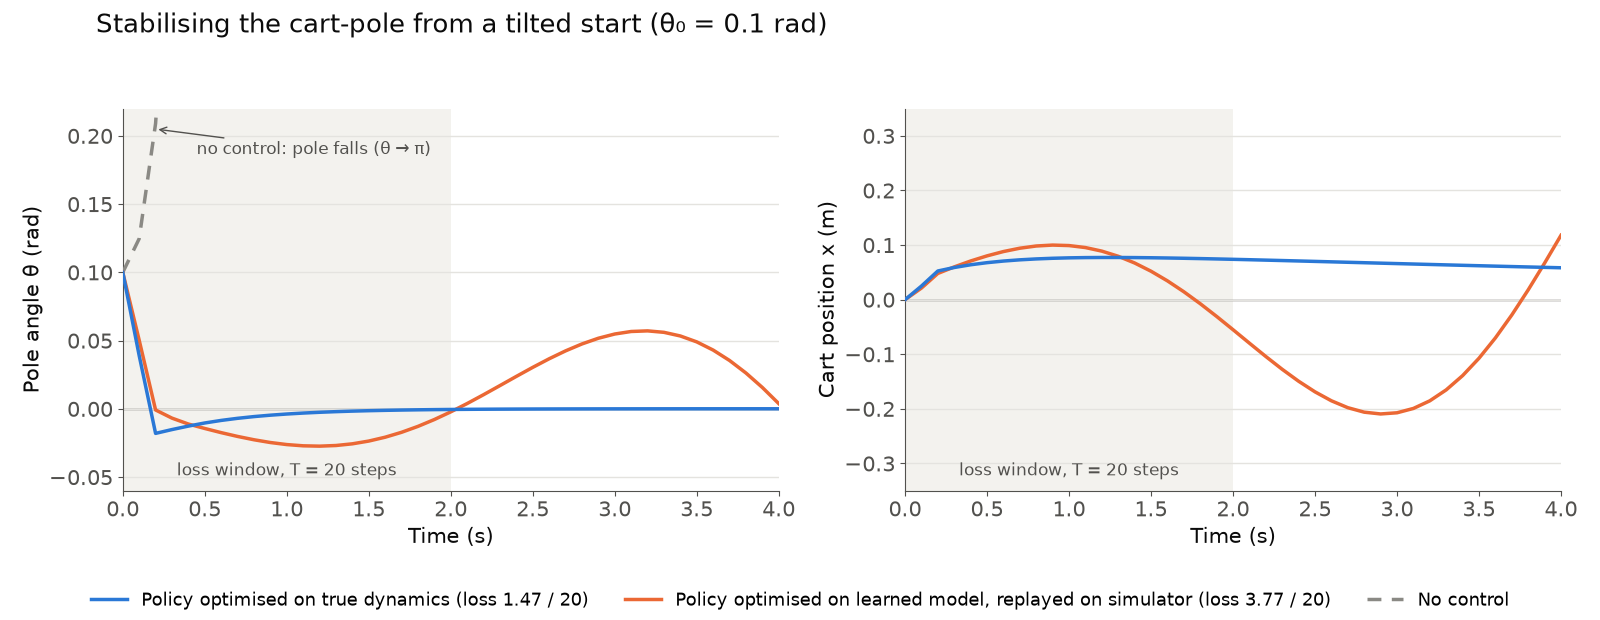
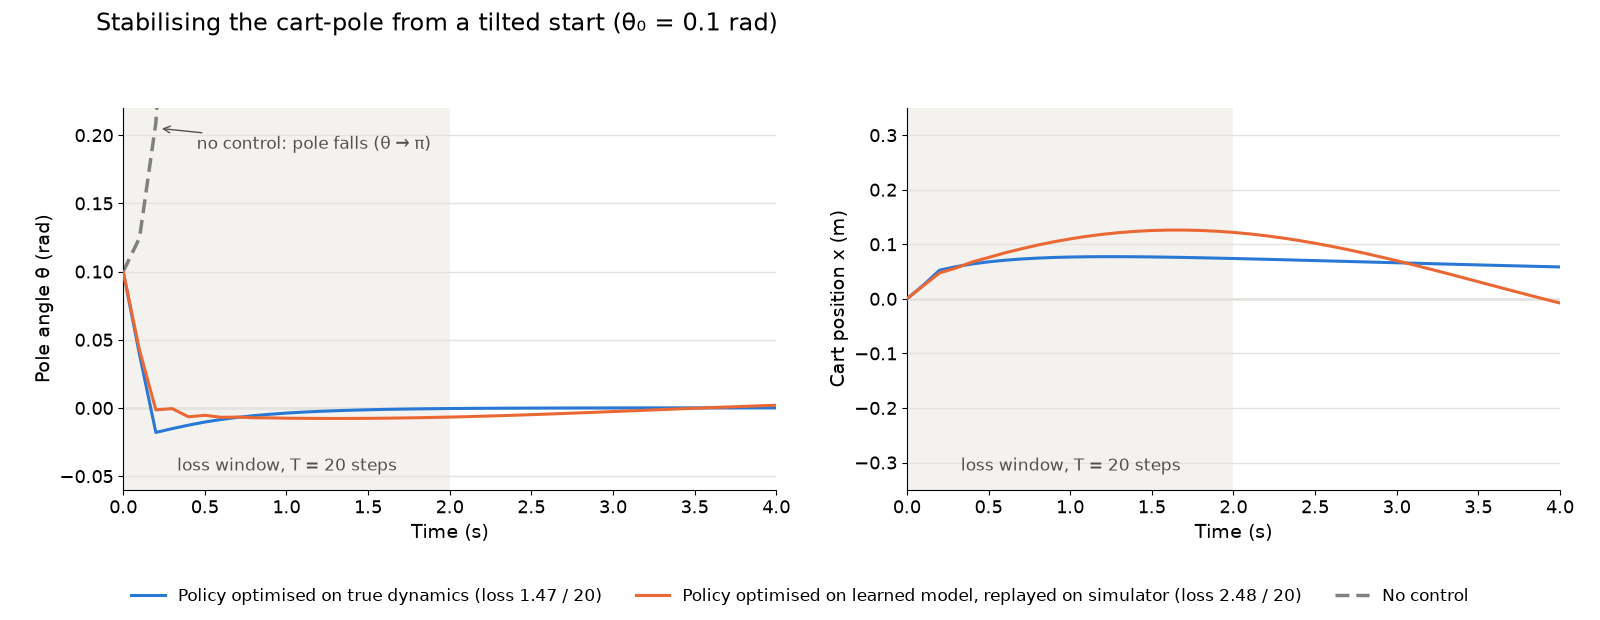
Add hero figure script, fix process-noise pipeline, update README values

diff --git a/experiments/policy_search/make_hero_figure.py b/experiments/policy_search/make_hero_figure.py
@@ -1,0 +1,161 @@
+import os
+import time
+import jax
+import jax.numpy as jnp
+import numpy as np
+import matplotlib.pyplot as plt
+from scipy.optimize import minimize
+
+from cartpole.simulation import rollout
+from experiments.policy_search.optimise_policy import objective
+from experiments.policy_search.optimise_on_action_model import model_rollout_jax, trajectory_loss_jax
+
+# Requires models/policy_search/model_kernel_optimized_sincos_action.npz
+# (experiments.policy_search.dataset, then experiments.policy_search.action_model).
+
+PARAMS = dict(
+    pole_length=0.5,
+    pole_mass=0.5,
+    cart_mass=0.5,
+    mu_c=0.001,
+    mu_p=0.001,
+    gravity=9.8,
+    sim_steps=50,
+    delta_time=0.1,
+    max_force=20.0,
+)
+SIGMA_L = jnp.array([0.5, 0.4, 0.05, 0.25])
+X0 = jnp.array([0.0, 0.0, 0.1, 0.0])
+T_LOSS = 20       # loss window on the simulator, as in optimise_policy
+T_MODEL = 5       # optimisation horizon inside the learned model, as in optimise_on_action_model
+T_PLOT = 40       # 4 s at delta_time = 0.1
+MAX_FORCE = 20.0
+
+BLUE = "#2a78d6"
+ORANGE = "#eb6834"
+GREY = "#808080"
+SHADE = "#f3f2ee"
+GRID = "#e4e3df"
+MUTED = "#52514e"
+
+def lbfgs(loss_fn):
+    obj_and_grad = jax.jit(jax.value_and_grad(loss_fn))
+    return minimize(
+        lambda p: float(obj_and_grad(p)[0]),
+        np.zeros(4),
+        method="L-BFGS-B",
+        jac=lambda p: np.array(obj_and_grad(p)[1]),
+        options={"maxiter": 100}
+    )
+
+def simulate(policy, T):
+    """Replay a linear policy on the reference simulator; returns (T+1, 4) including x0."""
+    if policy is None:
+        action_fn = None
+    else:
+        def action_fn(t, state):
+            return np.clip(np.dot(policy, state), -MAX_FORCE, MAX_FORCE)
+    traj = rollout(np.array(X0), T=T, action_fn=action_fn, remap=True)
+    return np.vstack([np.array(X0), traj])
+
+def simulator_loss(traj):
+    # Same loss as optimise_policy: sum over the T_LOSS states after x0
+    return float(trajectory_loss_jax(jnp.array(traj[1:T_LOSS + 1]), X0=jnp.zeros(4), sigma_l=SIGMA_L))
+
+def plot_panel(ax, t, series, idx, ylabel, ylim):
+    ax.axvspan(0, T_LOSS * PARAMS["delta_time"], color=SHADE, zorder=0, lw=0)
+    ax.text(0.33, ylim[0] + 0.04 * (ylim[1] - ylim[0]), f"loss window, T = {T_LOSS} steps",
+            color=MUTED, fontsize=12, va="bottom")
+    ax.axhline(0, color=GRID, lw=2, zorder=1)
+    for traj, style in series:
+        ax.plot(t, traj[:, idx], **style)
+    ax.set_xlim(0, T_PLOT * PARAMS["delta_time"])
+    ax.set_ylim(*ylim)
+    ax.set_xlabel("Time (s)")
+    ax.set_ylabel(ylabel)
+    ax.grid(axis="y", color=GRID, lw=1)
+    ax.set_axisbelow(True)
+    for side in ("top", "right"):
+        ax.spines[side].set_visible(False)
+
+def main():
+    start = time.time()
+
+    res_true = lbfgs(lambda p: objective(p, X0, T_LOSS, PARAMS, SIGMA_L))
+
+    model = np.load("models/policy_search/model_kernel_optimized_sincos_action.npz")
+    X_basis = jnp.array(model["X_basis"])
+    alpha = jnp.array(model["alpha"])
+    lengthscales = jnp.array(model["lengthscales"])
+    res_model = lbfgs(lambda p: trajectory_loss_jax(
+        model_rollout_jax(X0, p, T_MODEL, X_basis, alpha, lengthscales, max_force=MAX_FORCE),
+        X0=jnp.zeros(4), sigma_l=SIGMA_L))
+
+    traj_true = simulate(res_true.x, T_PLOT)
+    traj_model = simulate(res_model.x, T_PLOT)
+    traj_free = simulate(None, T_PLOT)
+
+    loss_true = simulator_loss(traj_true)
+    loss_model = simulator_loss(traj_model)
+    # Largest |theta| once the first control step has been applied (t >= 0.1 s)
+    max_theta_model = float(np.max(np.abs(traj_model[1:, 2])))
+
+    print("Policy optimised on true dynamics:", res_true.x)
+    print(f"  loss on simulator (T={T_LOSS}): {loss_true:.4f} / {T_LOSS}")
+    print(f"Policy optimised on learned model (T={T_MODEL}):", res_model.x)
+    print(f"  loss inside the model: {res_model.fun:.4f}")
+    print(f"  loss replayed on simulator (T={T_LOSS}): {loss_model:.4f} / {T_LOSS}")
+    print(f"  max |theta| for t >= 0.1 s over {T_PLOT} steps: {max_theta_model:.4f} rad")
+    print(f"No control: |theta| at t = {T_PLOT * PARAMS['delta_time']:.1f} s: {abs(traj_free[-1, 2]):.4f} rad")
+
+    t = np.arange(T_PLOT + 1) * PARAMS["delta_time"]
+    theta_lim = (-0.06, 0.22)
+    # Draw the uncontrolled pole only until it leaves the axes (it then wraps round through pi)
+    exit_idx = int(np.argmax(traj_free[:, 2] > theta_lim[1]))
+    traj_fall = traj_free.copy()
+    traj_fall[exit_idx + 1:] = np.nan
+    controlled = [
+        (traj_true, dict(color=BLUE, lw=2.2, zorder=3)),
+        (traj_model, dict(color=ORANGE, lw=2.2, zorder=3)),
+    ]
+    fall = (traj_fall, dict(color=GREY, lw=2.5, ls=(0, (4, 2)), zorder=2))
+
+    with plt.rc_context({
+        "font.size": 13,
+        "axes.labelsize": 14,
+        "xtick.labelsize": 13,
+        "ytick.labelsize": 13,
+        "legend.fontsize": 12,
+    }):
+        fig, (ax_theta, ax_x) = plt.subplots(1, 2, figsize=(16, 6.2))
+        plot_panel(ax_theta, t, [fall] + controlled, 2, "Pole angle θ (rad)", theta_lim)
+        plot_panel(ax_x, t, controlled, 0, "Cart position x (m)", (-0.35, 0.35))
+
+        ax_theta.annotate(
+            "no control: pole falls (θ → π)",
+            xy=(t[exit_idx - 1] + 0.02, 0.205), xytext=(0.45, 0.19),
+            color=MUTED, fontsize=12,
+            arrowprops=dict(arrowstyle="->", color=MUTED, lw=1),
+        )
+
+        handles = [
+            plt.Line2D([], [], color=BLUE, lw=2.2,
+                       label=f"Policy optimised on true dynamics (loss {loss_true:.2f} / {T_LOSS})"),
+            plt.Line2D([], [], color=ORANGE, lw=2.2,
+                       label=f"Policy optimised on learned model, replayed on simulator (loss {loss_model:.2f} / {T_LOSS})"),
+            plt.Line2D([], [], color=GREY, lw=2.5, ls=(0, (4, 2)), label="No control"),
+        ]
+        fig.legend(handles=handles, loc="lower center", ncol=3, frameon=False)
+        fig.suptitle("Stabilising the cart-pole from a tilted start (θ₀ = 0.1 rad)",
+                     x=0.06, ha="left", fontsize=17)
+        fig.subplots_adjust(left=0.077, right=0.975, top=0.826, bottom=0.21, wspace=0.2)
+
+        os.makedirs("assets", exist_ok=True)
+        fig.savefig("assets/policy_stabilisation.png", dpi=100)
+        plt.close(fig)
+
+    print("Saved assets/policy_stabilisation.png")
+    print(f"Done in {time.time() - start:.1f} s")
+
+if __name__ == "__main__":
+    main()

diff --git a/experiments/robustness/process_noise/noisy_data.py b/experiments/robustness/process_noise/noisy_data.py
@@ -74,20 +74,23 @@ def main():
     """Generate datasets from dynamics with additive process noise."""
     np.random.seed(42)
     
-    # Create output directory
+    # Create output directories
     os.makedirs("data/robustness/process_noise", exist_ok=True)
-    
+    os.makedirs("models/robustness/process_noise", exist_ok=True)
+
     # Generate dataset with clean dynamics (noise_std=0)
     print("Generating dataset with clean dynamics...")
     X_clean, Y_clean = collect_dataset(n_trajectories=100, steps_per_trajectory=20, noise_std=0.0)
     
     # Generate datasets with different noise levels
     noise_levels = [0.01, 0.05, 0.1]
-    
+    noisy_datasets = {}
+
     for noise_std in noise_levels:
         print(f"Generating dataset with noise_std={noise_std}...")
         X_noisy, Y_noisy = collect_dataset(n_trajectories=100, steps_per_trajectory=20, noise_std=noise_std)
-        
+        noisy_datasets[noise_std] = (X_noisy, Y_noisy)
+
         # Save dataset
         np.savez(
             f"data/robustness/process_noise/nonlinear_dataset_noise_{noise_std:.2f}.npz",
@@ -121,6 +124,7 @@ def main():
     
     # Save the reference noisy dataset used by the downstream models
     main_noise_std = 0.05  # Noise level of the reference dataset
+    X_noisy, Y_noisy = noisy_datasets[main_noise_std]
     np.savez("models/robustness/process_noise/nonlinear_dataset.npz", X=X_noisy, Y=Y_noisy, noise_std=main_noise_std)
     print(f"Reference process-noise dataset saved with noise_std={main_noise_std}")
     

diff --git a/experiments/robustness/process_noise/run_all.py b/experiments/robustness/process_noise/run_all.py
@@ -1,12 +1,24 @@
 import os
 import argparse
 
+OBSERVATION_NOISE_POLICIES = "models/robustness/observation_noise/optimized_policies.npz"
+
 def main():
     parser = argparse.ArgumentParser(description="Process-noise pipeline: noisy dynamics, data, model and policy stability")
     parser.add_argument('--step', type=int, choices=[1, 2, 3, 4], default=0, 
                         help="Run specific step: 1=test dynamics, 2=generate data, 3=train model, 4=evaluate stability")
     args = parser.parse_args()
-    
+
+    # Step 4 stress-tests the policies from the observation-noise study, so that
+    # pipeline must run first; fail before spending time on steps 1-3.
+    if args.step in (0, 4) and not os.path.exists(OBSERVATION_NOISE_POLICIES):
+        parser.error(
+            f"{OBSERVATION_NOISE_POLICIES} not found. Run the observation-noise pipeline first:\n"
+            "  python -m experiments.robustness.observation_noise.noisy_data\n"
+            "  python -m experiments.robustness.observation_noise.kernel_model\n"
+            "  python -m experiments.robustness.observation_noise.optimise_policy"
+        )
+
     # Create output directories
     os.makedirs("figures/robustness/process_noise", exist_ok=True)
     os.makedirs("models/robustness/process_noise", exist_ok=True)

diff --git a/experiments/robustness/process_noise/linear_model.py b/experiments/robustness/process_noise/linear_model.py
@@ -22,7 +22,8 @@ def main():
     labels = ["x", "x_dot", "theta", "theta_dot"]
     out_dir = _make_output_dirs("figures/robustness/process_noise/linear")
     
-    data = np.load("models/robustness/process_noise/linear_dataset.npz")
+    # Reference process-noise dataset written by noisy_data.py
+    data = np.load("models/robustness/process_noise/nonlinear_dataset.npz")
     X = data["X"]
     Y = data["Y"]
     
@@ -55,7 +56,7 @@ def main():
     ax.set_ylabel("Output dimension")
     ax.set_xticks(np.arange(C.shape[1]))
     ax.set_yticks(np.arange(C.shape[0]))
-    ax.set_xticklabels(labels)
+    ax.set_xticklabels(labels + ["action"])  # inputs are state + action
     ax.set_yticklabels([f"Δ{label}" for label in labels])
     plt.colorbar(im, ax=ax)
     plt.tight_layout()

diff --git a/experiments/robustness/process_noise/optimise_policy.py b/experiments/robustness/process_noise/optimise_policy.py
@@ -266,9 +266,9 @@ def main():
     T = 30
     max_force = 20.0
 
-    model_path = "models/policy_search/nonlinear_model.npz"
+    model_path = "models/robustness/process_noise/nonlinear_model.npz"
     if not os.path.exists(model_path):
-        print(f"Error: Model not found at {model_path}. Please run nonlinear.py first to generate the model.")
+        print(f"Error: Model not found at {model_path}. Run experiments.robustness.process_noise.kernel_model first.")
         return
 
     model = np.load(model_path)

diff --git a/experiments/policy_search/dataset.py b/experiments/policy_search/dataset.py
@@ -3,6 +3,7 @@ import numpy as np
 from cartpole.data import collect_dataset
 
 def main():
+    np.random.seed(5)
     X, Y = collect_dataset(n_samples=50000, with_action=True)
     os.makedirs("data/state_action_transitions", exist_ok=True)
     np.save("data/state_action_transitions/X.npy", X)

diff --git a/cartpole/jax_dynamics.py b/cartpole/jax_dynamics.py
@@ -12,7 +12,7 @@ def cartpole_dynamics(state, action, params=None):
             gravity=9.8,
             sim_steps=50,
             delta_time=0.1,
-            max_force=10.0,
+            max_force=20.0,
         )
     x, x_dot, theta, theta_dot = state
 

diff --git a/README.md b/README.md
@@ -4,7 +4,7 @@ Learn the dynamics of an inverted pendulum from simulated transitions, then opti
 
 <p align="center">
   <img src="assets/policy_stabilisation.png" width="100%" alt="Pole angle and cart position over 4 seconds from a 0.1 rad tilt, for a policy optimised on the true dynamics, a policy optimised on the learned model, and no control">
-  <br><em>From a 0.1 rad tilt, a linear policy optimised through the differentiable simulator returns the pole to upright (loss 1.47 / 20) and holds it. A policy optimised only inside the learned kernel model, replayed on the simulator, keeps the pole within 0.06 rad after the first step but oscillates slowly (loss 3.77 / 20). Without control the pole falls.</em>
+  <br><em>From a 0.1 rad tilt, a linear policy optimised through the differentiable simulator returns the pole to upright (loss 1.47 / 20) and holds it. A policy optimised only inside the learned kernel model, replayed on the simulator, keeps the pole within 0.05 rad after the first step and settles close to upright, with a slower cart drift (loss 2.48 / 20). Without control the pole falls.</em>
 </p>
 
 ## Overview
@@ -15,7 +15,7 @@ The pipeline builds up from linear least squares, to periodic-kernel regression 
 
 ## Highlights
 
-- **Stabilisation from a tilted start.** On the simulator, a linear policy optimised by L-BFGS through a differentiable 20-step rollout brings the pole from $\theta_0 = 0.1$ rad to upright with a cumulative loss of **1.47 out of a maximum 20**, and **1.44 / 20** from a perturbed start of all four states.
+- **Stabilisation from a tilted start.** On the simulator, a linear policy optimised by L-BFGS through a differentiable 20-step rollout brings the pole from $\theta_0 = 0.1$ rad to upright with a cumulative loss of **1.47 out of a maximum 20**, and 2.86 / 20 from a perturbed start of all four states.
 - **The simulator itself is differentiable.** The 50-substep semi-implicit Euler integrator is re-implemented in JAX (`jax.lax.scan`), so exact policy gradients come from autodiff instead of finite differences.
 - **Angles handled correctly.** The kernel treats $\theta$ as periodic, either through a $\sin\!\big((\theta-\theta')/2\big)$ distance or through $(\sin\theta, \cos\theta)$ features, so the model does not break at the $\pm\pi$ wrap-around.
 - **Hyperparameters by gradient descent.** Per-dimension lengthscales and the ridge penalty $\lambda$ are learned by differentiating validation MSE through the closed-form kernel solve.
@@ -23,11 +23,11 @@ The pipeline builds up from linear least squares, to periodic-kernel regression 
 
 | Initial state $(x, \dot x, \theta, \dot\theta)$ | Optimised gains $p$ | Loss (T = 20, max 20) |
 |---|---|---|
-| $(0, 0, 0.1, 0)$, tilted | $[0.46,\ 3.97,\ 34.07,\ 4.79]$ | **1.47** |
-| $(0.08, -0.13, 0.09, 0.17)$, perturbed | $[1.18,\ 4.71,\ 34.94,\ 5.06]$ | **1.44** |
+| $(0, 0, 0.1, 0)$, tilted | $[0.47,\ 4.02,\ 34.32,\ 4.83]$ | **1.47** |
+| $(0.08, -0.13, 0.09, 0.17)$, perturbed | $[5.06,\ -10.50,\ 13.30,\ -0.73]$ | 2.86 |
 | $(0, 0, \pi, 0)$, hanging down | $[0,\ 0,\ 0,\ 0]$ | 20.0 |
 
-The hanging-down case is the informative failure. The loss is saturated, so its gradient vanishes and a linear feedback law cannot learn a swing-up. That is why the controller is posed as local stabilisation about the upright equilibrium. (Values recorded in `experiments/policy_search/optimise_policy.py`. Re-running it with current JAX reproduces the tilted and hanging-down rows; for the perturbed start, L-BFGS from zero gains now settles in a worse local minimum (loss 2.86), although the recorded gains above still score 1.445 under the current code.)
+The hanging-down case is the informative failure. The loss is saturated, so its gradient vanishes and a linear feedback law cannot learn a swing-up. That is why the controller is posed as local stabilisation about the upright equilibrium. (Values from running `experiments/policy_search/optimise_policy.py`; L-BFGS starts from zero gains in every case.)
 
 ## Method
 
@@ -93,8 +93,16 @@ uv run python -m experiments.policy_search.dataset                   # 50,000 st
 uv run python -m experiments.policy_search.action_model              # action-conditioned kernel model
 uv run python -m experiments.policy_search.optimise_policy           # policy search on the true dynamics
 uv run python -m experiments.policy_search.optimise_on_action_model  # policy search on the learned model
+uv run python -m experiments.policy_search.make_hero_figure          # assets/policy_stabilisation.png
 
 uv run python -m experiments.robustness.observation_noise.noise_impact_study
+uv run python -m experiments.robustness.observation_noise.noisy_data       # noisy-target copies of both datasets
+uv run python -m experiments.robustness.observation_noise.kernel_model     # kernel model refitted to noisy targets
+uv run python -m experiments.robustness.observation_noise.optimise_policy  # policies stress-tested below
+
+uv run python -m experiments.robustness.process_noise.run_all              # noisy dynamics, data, model, policy stability
+uv run python -m experiments.robustness.process_noise.linear_model         # linear model on process-noise data
+uv run python -m experiments.robustness.process_noise.optimise_policy      # policy search on the process-noise model
 ```
 
 ## Tech stack
